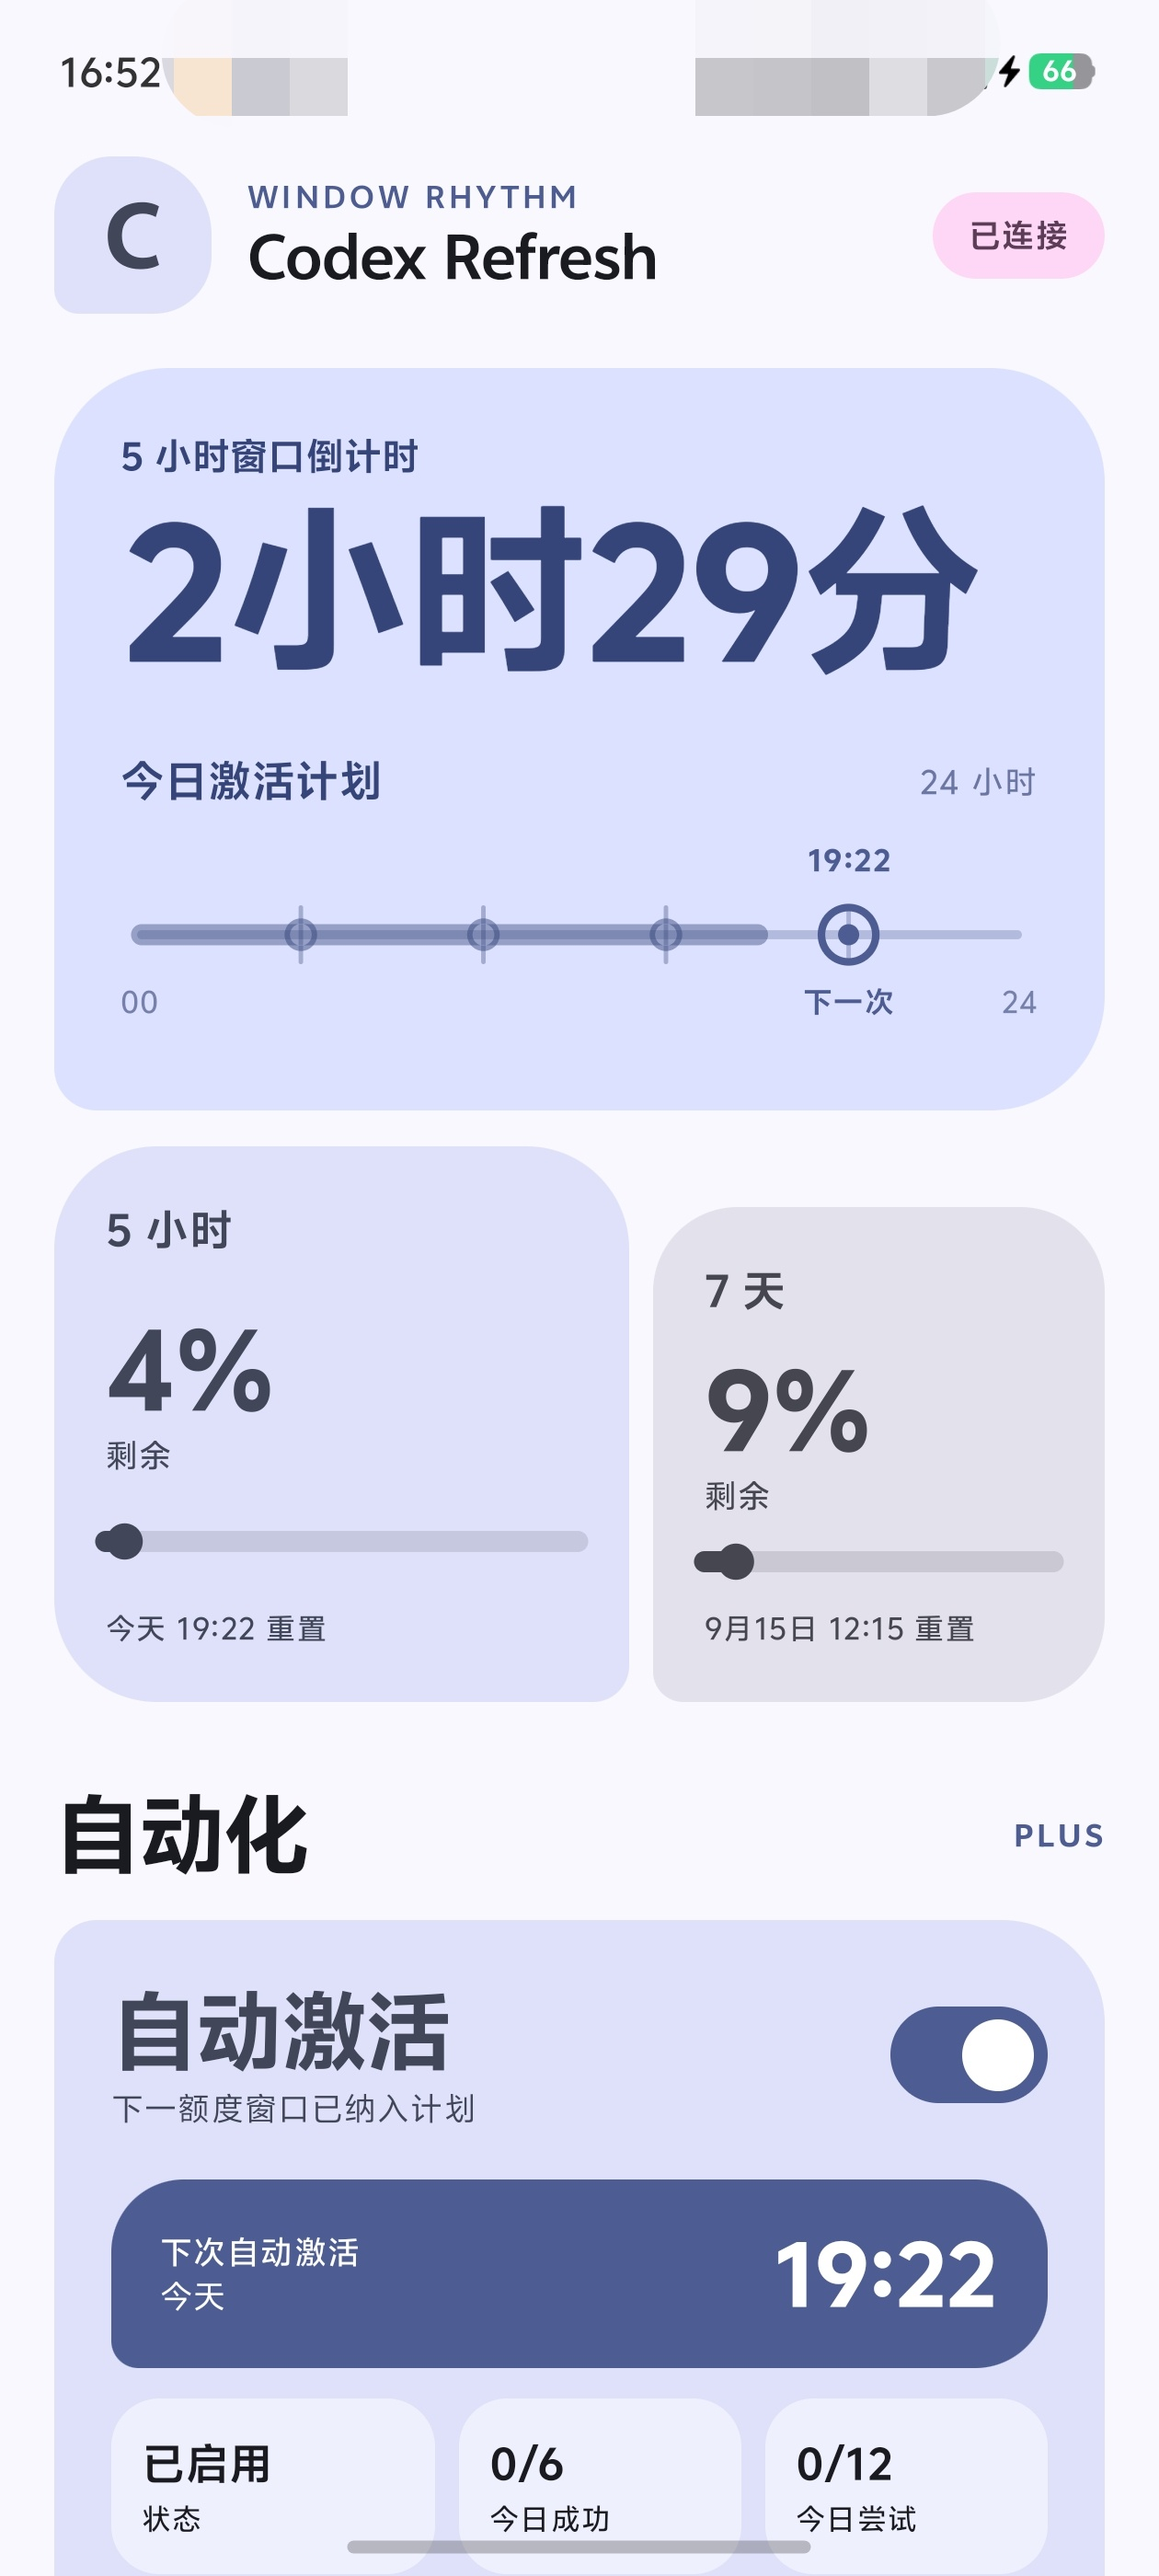
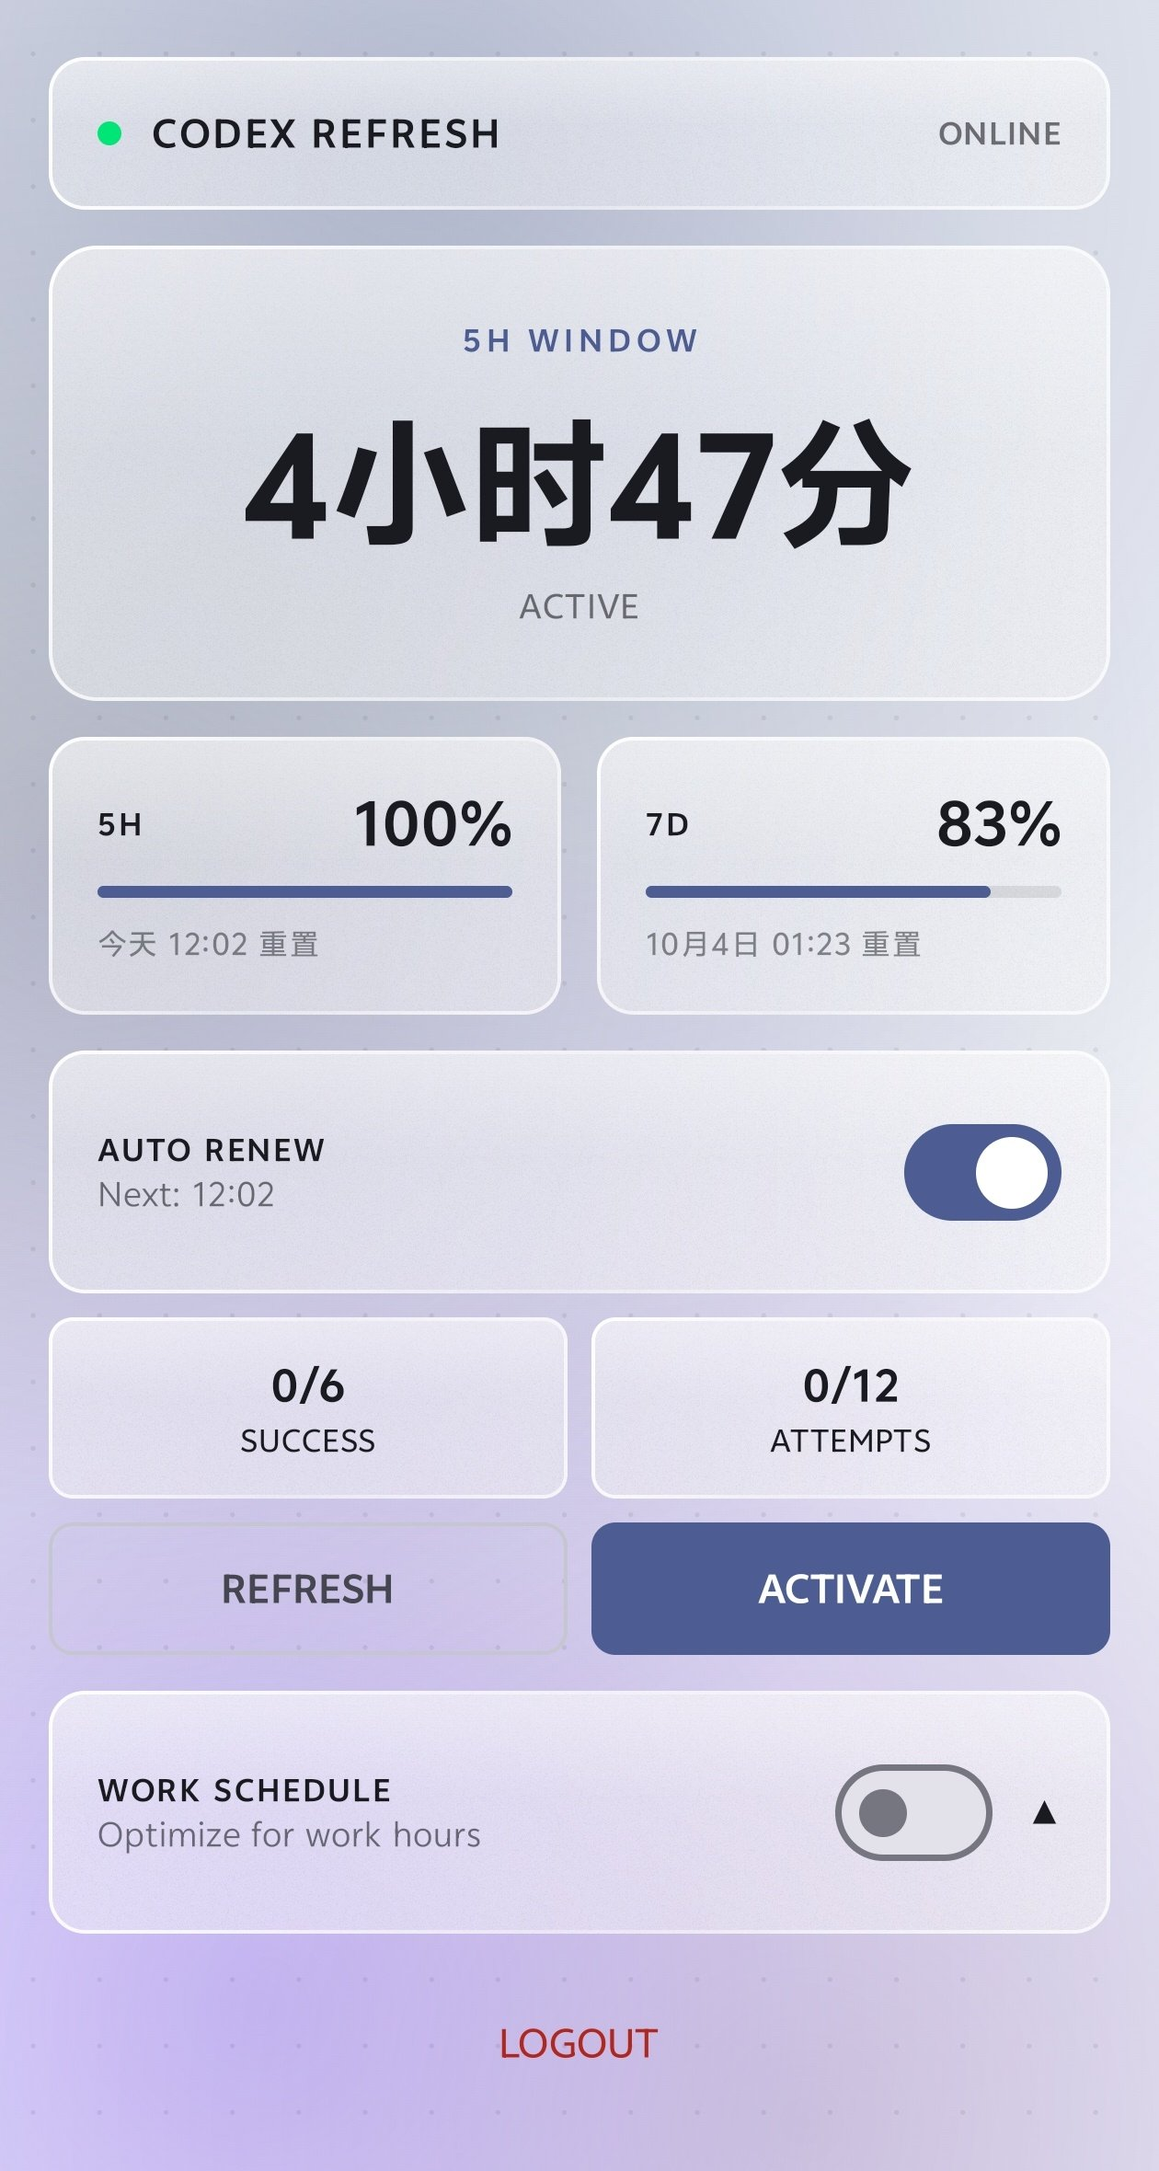
docs: refresh README and screenshot for glass UI
- New screenshot of the aurora + frosted-glass home screen
- Add an interface section describing the glass look and each card
- Update features and first-run steps to the current UI labels
- Drop Day Rail, model picker and diagnostics viewer, which the
  redesign no longer exposes
- Document build-signed.sh; list new source files; 12 test classes

diff --git a/README.md b/README.md
@@ -7,20 +7,34 @@
 > [!IMPORTANT]
 > 本项目与 OpenAI、ChatGPT、Codex 官方无隶属关系，不会绕过、扩充或破解任何额度。它只使用你已登录的订阅，在计划时间发送一个普通的最小请求，让下一个 5 小时窗口开始计时。Codex 用量接口属于 ChatGPT 后端接口而非稳定公开 API，字段与可用性可能变化，请自行评估使用风险。
 
-![主界面](docs/screenshot-main.jpg)
+<p align="center">
+  <img src="docs/screenshot-main.jpg" width="360" alt="主界面：极光背景上的毛玻璃卡片，显示 5 小时窗口倒计时、5 小时与 7 天剩余额度、自动激活开关和工作时间优化">
+</p>
+
+## 界面
+
+主界面是**极光 + 毛玻璃**风格：几团柔和的光斑在背景里以 24 秒为周期缓慢漂移，每张卡片实时模糊身后的极光，再叠上细颗粒噪点、顶部高光和渐变描边，做出磨砂玻璃的质感；卡片外露出淡淡的点阵底纹，被玻璃盖住的地方点阵消失。配色跟随系统浅色 / 深色，Android 12+ 自动取壁纸色（Material You）。
+
+卡片从上到下：
+
+| 卡片 | 内容 |
+| --- | --- |
+| 状态栏 | 连接状态指示灯：绿色为已连接，琥珀色为 5 小时窗口等待激活，灰色为未连接 |
+| **5H WINDOW** | 当前 5 小时窗口剩余时间的大号倒计时 |
+| **5H / 7D** | 两个额度窗口的剩余百分比、进度条与重置时间 |
+| **AUTO RENEW** | 自动激活开关与下一次激活时间；开启后下方显示今日成功 / 尝试次数 |
+| **REFRESH / ACTIVATE** | 重新读取额度；手动发送一次激活请求（未登录时左侧按钮为 **CONNECT**） |
+| **WORK SCHEDULE** | 按上班时间优化激活点，展开后直接拖动时间轴调整 |
 
 ## 功能
 
 - **5 小时窗口状态**：结合用量与 `reset_at` 是否固定判断活动窗口；0% 模糊状态只做一次前台确认，待命时显示“等待激活”
 - **5 小时 / 7 天剩余额度**：服务端“已使用百分比”换算为剩余百分比，数字与进度条都表示剩余容量
 - **自动激活**：到点由 WorkManager 发送一个轻量挑战请求启动新窗口；窗口活跃、额度耗尽或结果未知时安全跳过，不会重复发送
-- **静默准时唤醒**：Android 12+ 可由用户授予“闹钟和提醒”权限，在夜间 Doze 中按计划唤醒任务；不响铃、不振动、不亮屏，未授权时自动退化为省电兼容调度
-- **按上班时间优化激活点**：默认 08:30–17:30，推荐点为 05:30 / 10:30 / 15:30，让上班时段接触三个额度窗口；支持跨午夜班次
-- **24 小时 Day Rail**：今天已过去的部分更粗更实；只显示已确认的当前窗口结束点、自动计划点、下一次激活与真实成功，不从旧 reset 推造窗口
+- **静默准时唤醒**：Android 12+ 可由用户授予“闹钟和提醒”权限，在夜间 Doze 中按计划唤醒任务；不响铃、不振动、不亮屏。未授权时自动退化为省电兼容调度，AUTO RENEW 卡片会给出提示，点按即可前往授权
+- **按上班时间优化激活点**：默认 08:30–17:30，推荐点为 05:30 / 10:30 / 15:30，让上班时段接触三个额度窗口；拖动时间轴两端调整上下班时间（15 分钟吸附，松手即保存），点按时间可用时间选择器精确设置；支持跨午夜班次
 - **常驻通知**：活动窗口显示 `5小时：17:30重置｜7天：9月15日·12:00重置`，到期后自动改为 `5小时：等待激活`；不会为通知额外发起网络请求
-- **手动备用卡片**：重新读取额度、从当前账号的 Codex 在线模型目录选择手动激活请求模型、设备码重新登录等异常恢复操作；选择保存在本机，模型目录读取失败时仍可使用已选模型
-- **本地额度诊断**：记录既有额度读取的来源、原始 `used_percent`、`reset_at` 与相关窗口秒数，便于核对服务端行为；不记录账号、Token 或 Prompt
-- **设备码 OAuth 登录**：无需密码；Token 由 Android Keystore 加密存储，不写日志
+- **设备码 OAuth 登录**：无需密码；登录时验证码直接显示在首页，点按即可复制；Token 由 Android Keystore 加密存储，不写日志
 
 ## 安装
 
@@ -30,9 +44,9 @@
 
 首次使用：
 
-1. 打开应用，按提示完成设备码登录；
-2. 首页查看 5 小时与 7 天额度；
-3. 需要自动激活时打开“自动激活”开关，并允许通知。
+1. 打开应用，点 **CONNECT**：浏览器会打开设备登录页，把首页 **DEVICE CODE** 卡片上的验证码填进去（点按卡片可复制）；
+2. 登录完成后首页显示 5 小时与 7 天额度；
+3. 需要自动激活时打开 **AUTO RENEW**，并允许通知；若卡片提示未授权准时唤醒，点按前往授权。
 
 自动激活依赖前台常驻服务与 WorkManager 后台任务。为保证长期运行，建议：
 
@@ -43,7 +57,7 @@
 
 ## 自动化安全语义
 
-自动功能默认关闭，只有用户在“自动激活”卡片明确打开后才启用。启用后：
+自动功能默认关闭，只有用户明确打开 **AUTO RENEW** 后才启用。启用后：
 
 - 启用不会立即发送请求；首次 worker 只读取额度元数据
 - 优先安排可信的 5 小时 reset + 10 秒；0% 模糊窗口在 12 秒后只确认一次元数据，其他信息不完整时 5 分钟后重试
@@ -83,26 +97,31 @@ android.aapt2FromMavenOverride=/opt/android-sdk/build-tools/36.1.0/aapt2
 
 例如在 proot Ubuntu 容器中安装 Android SDK 后，即可正常执行上述 Gradle 命令。GitHub Actions 等 x86_64 环境无需该配置。
 
+仓库里的 `build-signed.sh` 是作者在 Termux 上使用的签名构建脚本：从 `~/.local/share/codex-refresh-signing/release.pass` 读取密码，通过 `proot-distro` 的 `android-build` 容器运行单元测试并打出签名 release 包。密码只经环境变量传入，不写进仓库。
+
 ## 项目结构
 
 ```text
 app/src/main/java/com/codexrefresh/app/
 ├── MainActivity.kt          # Activity 与页面状态协调
-├── ExpressiveHome.kt        # Material 3 Expressive 主界面（Compose）
+├── ExpressiveHome.kt        # 极光背景 + 毛玻璃卡片主界面、可拖动工作时间轴（Compose）
 ├── CodexClient.kt           # 设备码 OAuth、WHAM 额度、Responses SSE 挑战、Keystore TokenStore
+├── ProbeModels.kt           # Codex 在线模型目录解析与激活请求体
 ├── AutoScheduler.kt         # 调度策略：目标计算、租约、安全门与每日上限
 ├── AutoWorker.kt            # WorkManager 唯一网络执行者
 ├── AutoAlarm.kt             # Doze 下的静默唤醒与精确/近似调度降级
 ├── AutoKeepAliveService.kt  # 用户 opt-in 的前台常驻 supervisor
 ├── AutoBootReceiver.kt      # 开机 / 应用更新后恢复调度
 ├── WorkSchedule.kt          # 按上班时间优化激活点
-├── TimelinePresentation.kt  # 24 小时 Day Rail 呈现模型
+├── TimelinePresentation.kt  # 窗口时间轴与工作计划文案
+├── TimelineUiModel.kt       # 时间轴纯呈现模型
 ├── QuotaPresentation.kt     # 额度呈现（已用百分比 → 剩余容量）
+├── QuotaDiagnostics.kt      # 5 小时窗口证据判定与本地额度观测记录
 ├── ProbeSseState.kt         # 挑战请求的状态校验
 └── SseParser.kt             # SSE 增量解析
 ```
 
-9 个 JVM 测试类覆盖唤醒模式、调度策略、租约与并发协调、额度换算、SSE 解析、时间轴呈现与工作时段推荐，随 `testDebugUnitTest` 运行。
+12 个 JVM 测试类覆盖唤醒模式、调度策略、租约与并发协调、额度换算与窗口证据、模型目录解析、SSE 解析、时间轴呈现、工作时段推荐与拖动时间轴几何，随 `testDebugUnitTest` 运行。
 
 ## 已知限制
 
